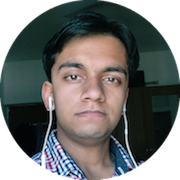
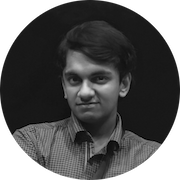
Added new people

diff --git a/templates/team.html b/templates/team.html
@@ -9,6 +9,93 @@
 					<h1 class="text-center">Team</h1>
 				</div>
 			</div>
+			
+			<div class="row">
+				<div class="col-md-12">
+					<h2 class="text-center">Current Organizers</h2>
+				</div>
+			</div>
+
+			
+			<div class="row">
+				<div class="col-md-4">
+					<img src="{{ url_for('static',filename='images/Avikant.png') }}" class="center-block img-quadrata">
+					<h3 class="text-center">Avikant Saini</h3>
+					<h3 class="text-center">
+						<a href="https://github.com/avikantz"><i class="fa fa-github"></i></a>
+						<a href="https://in.linkedin.com/in/avikantz"><i class="fa fa-linkedin"></i></a>
+					</h3>
+				</div>
+				<div class="col-md-4">
+					<img src="{{ url_for('static',filename='images/Yash.png') }}" class="center-block img-quadrata" >
+					<h3 class="text-center" >Yash Kumar Lal</h3>
+					<h3 class="text-center">
+						<a href="https://github.com/ykl7"><i class="fa fa-github"></i></a>
+						<a href="https://in.linkedin.com/in/yash-kumar-lal-588187122"><i class="fa fa-linkedin"></i></a>
+					</h3>
+				</div>
+				<div class="col-md-4">
+					<img src="{{ url_for('static',filename='images/Chinmay.png') }}" class="center-block img-quadrata" >
+					<h3 class="text-center" >Chinmay Nivsarkar</h3>
+					<h3 class="text-center">
+						<a href="https://github.com/chinmayn"><i class="fa fa-github"></i></a>
+						<a href="https://www.linkedin.com/in/chinmay-nivsarkar-711b54137/"><i class="fa fa-linkedin"></i></a>
+					</h3>
+				</div>
+			</div>
+
+			<div class="row">
+				<div class="col-md-4">
+					<img src="{{ url_for('static',filename='images/Sachi.png') }}" class="center-block img-quadrata">
+					<h3 class="text-center">Sachi Angle</h3>
+					<h3 class="text-center">
+						<a href="https://github.com/sach211"><i class="fa fa-github"></i></a>
+						<a href="https://www.linkedin.com/in/sachi-angle-0b7454124"><i class="fa fa-linkedin"></i></a>
+					</h3>
+				</div>
+				<div class="col-md-4">
+					<img src="{{ url_for('static',filename='images/Bhawesh.png') }}" class="center-block img-quadrata" >
+					<h3 class="text-center" >Bhawesh Bhansali</h3>
+					<h3 class="text-center">
+						<a href="https://github.com/bhawesh96"><i class="fa fa-github"></i></a>
+						<a href="https://www.linkedin.com/in/bhawesh96/"><i class="fa fa-linkedin"></i></a>
+					</h3>
+				</div>
+				<div class="col-md-4">
+					<img src="{{ url_for('static',filename='images/Sahal.png') }}" class="center-block img-quadrata" >
+					<h3 class="text-center" >Sahal Shams</h3>
+					<h3 class="text-center">
+						<a href="https://github.com/shamssahal"><i class="fa fa-github"></i></a>
+						<a href="https://www.linkedin.com/in/sahal-shams-68398633/"><i class="fa fa-linkedin"></i></a>
+					</h3>
+				</div>
+			</div>
+
+			<div class="row">
+				<div class="col-md-4">
+					<img src="{{ url_for('static',filename='images/Abhishek.png') }}" class="center-block img-quadrata">
+					<h3 class="text-center">Abhishek Vora</h3>
+					<h3 class="text-center">
+						<a href="https://github.com/abhivora8"><i class="fa fa-github"></i></a>
+						<a href="https://in.linkedin.com/"><i class="fa fa-linkedin"></i></a>
+					</h3>
+				</div>
+				<div class="col-md-4">
+					<img src="{{ url_for('static',filename='images/Pramod.png') }}" class="center-block img-quadrata" >
+					<h3 class="text-center" >Pramod Shenoy</h3>
+					<h3 class="text-center">
+						<a href="https://github.com/PramodShenoy"><i class="fa fa-github"></i></a>
+						<a href="https://www.linkedin.com/in/pramod-shenoy-468584137/"><i class="fa fa-linkedin"></i></a>
+					</h3>
+				</div>
+			</div>
+
+			<div class="row">
+				<div class="col-md-12">
+					<h2 class="text-center">Founders</h2>
+				</div>
+			</div>
+
 			<div class="row">
 				<div class="col-md-4">
 					<img src="{{ url_for('static',filename='images/Sailesh.png') }}" class="img-quadrata center-block" >
@@ -52,41 +139,8 @@
 						<a href="https://in.linkedin.com/in/arpan1311"><i class="fa fa-linkedin"></i></a>
 					</h3>
 				</div>
-				<div class="col-md-4">
-					<img src="{{ url_for('static',filename='images/Yash.png') }}" class="center-block img-quadrata" >
-					<h3 class="text-center" >Yash Kumar Lal</h3>
-					<h3 class="text-center">
-						<a href="https://github.com/ykl7"><i class="fa fa-github"></i></a>
-						<a href="https://in.linkedin.com/in/yash-kumar-lal-588187122"><i class="fa fa-linkedin"></i></a>
-					</h3>
-				</div>
 			</div>
-			<div class="row">
-				<div class="col-md-4">
-					<img src="{{ url_for('static',filename='images/Avikant.png') }}" class="center-block img-quadrata">
-					<h3 class="text-center">Avikant Saini</h3>
-					<h3 class="text-center">
-						<a href="https://github.com/avikantz"><i class="fa fa-github"></i></a>
-						<a href="https://in.linkedin.com/in/avikantz"><i class="fa fa-linkedin"></i></a>
-					</h3>
-				</div>
-				<div class="col-md-4">
-					<img src="{{ url_for('static',filename='images/Jitesh.png') }}" class="img-quadrata center-block" >
-					<h3 class="text-center" >Jitesh Jha</h3>
-					<h3 class="text-center">
-						<a href="https://github.com/jiteshjha"><i class="fa fa-github"></i></a>
-						<a href="https://in.linkedin.com/in/jiteshjha96"><i class="fa fa-linkedin"></i></a>
-					</h3>
-				</div>
-				<div class="col-md-4">
-					<img src="{{ url_for('static',filename='images/Saketh.png') }}" class="img-quadrata center-block" >
-					<h3 class="text-center" >Saketh Kaparthi</h3>
-					<h3 class="text-center">
-						<a href="https://github.com/sakethkaparthi"><i class="fa fa-github"></i></a>
-						<a href="https://in.linkedin.com/in/saketh-kaparthi-561b0b112"><i class="fa fa-linkedin"></i></a>
-					</h3>
-				</div>
-			</div>
+
 		</div>
 	</div>
 
